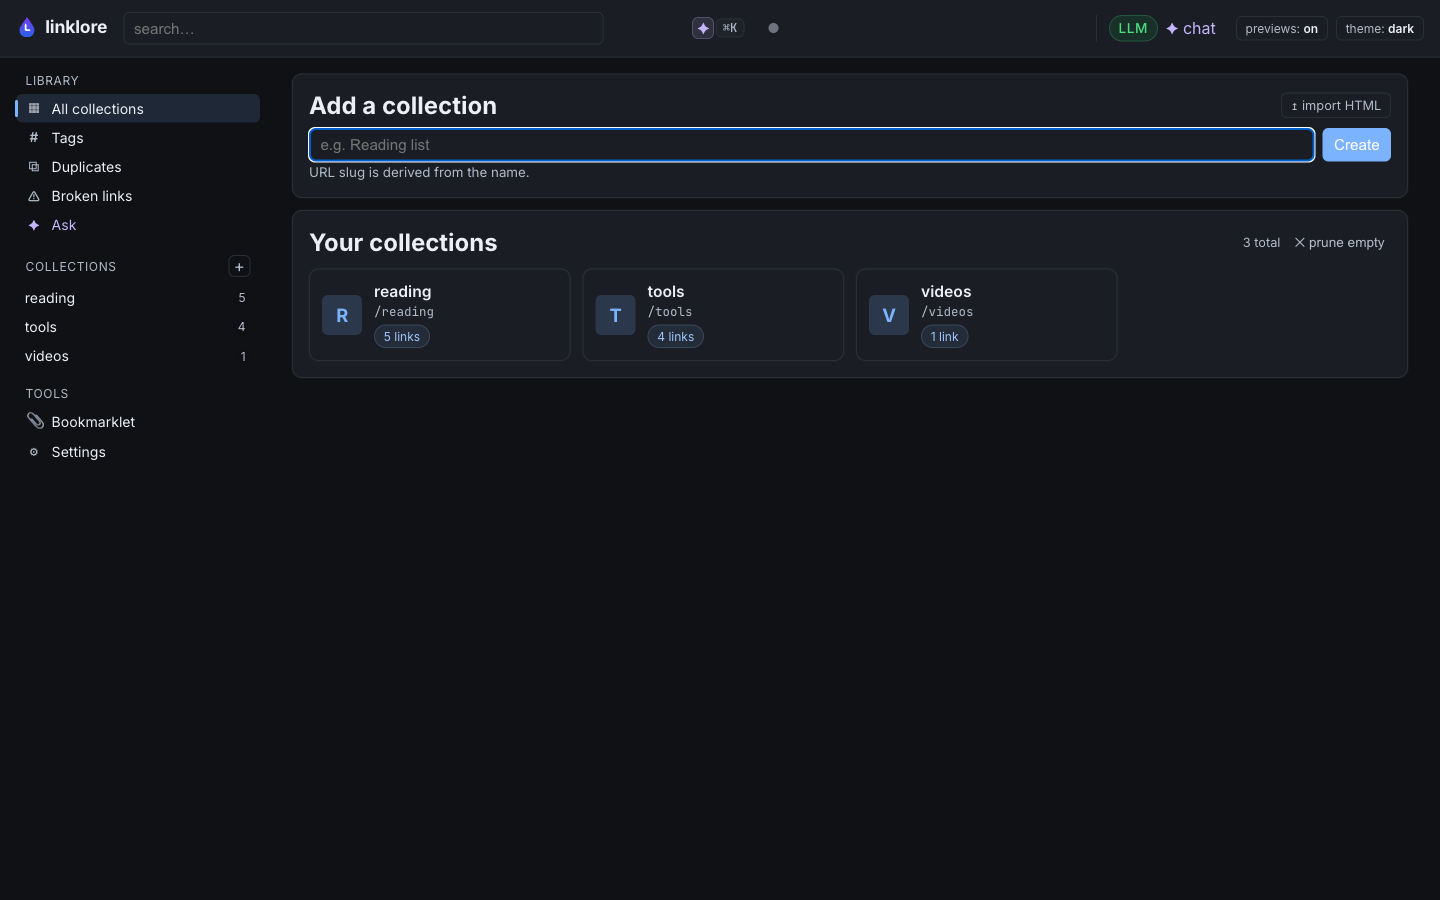
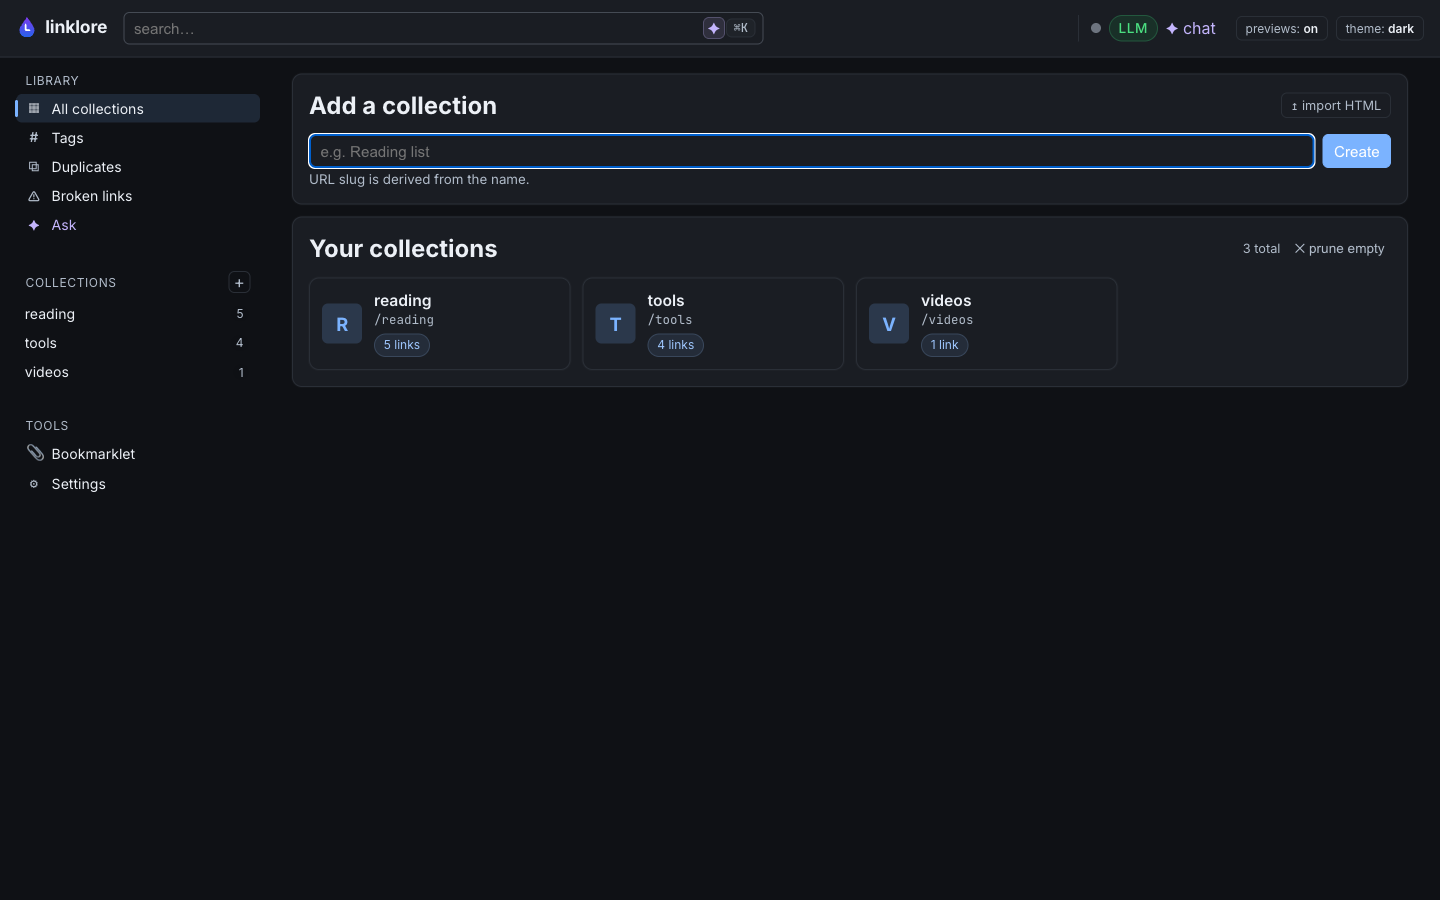
docs(screenshots): re-shoot v16 UI + lead with moodboard hero & chat
After the v16 UI fixes (search/⌘K flush, slug+badges in one row,
sidebar pin on tools, worker-pill hidden when empty), all 8
screenshots needed regenerating.

Reorganised the README screenshot block to lead with the project's
two visual centerpieces:

- Hero (top of README): the Pinterest-style moodboard view of the
  reading collection — three real article cards (Go gophers,
  Stripe Dot Dev, Microservices illustration). Strongest single
  image we have.
- Below: the chat-with-citations capture gets a full-width row of
  its own. The body shows a real Q+A with four [src:4] citations
  inline and the cited / dimmed distinction in the sources rail.
- Then a 2x2 grid: collection list, drawer, type filter, palette.

Each screenshot was retaken against the demo DB at v16 so the
chat-vs-LLM cluster, the slug+badges row, the no-redundant-square
title and the tight ⌘K affordance are all visible in the images.

diff --git a/README.md b/README.md
@@ -73,18 +73,22 @@ the migration.
 
 ## Screenshots
 
+The two views the project is built around: a Pinterest-style moodboard
+of your saved links (the hero above), and a RAG chat that answers
+questions in the language of your library and cites the exact source
+chunk it used.
+
 <table>
 <tr>
-<td width="50%"><strong>Collection — list view</strong><br>Favicon + LLM summary + tags per row, big single hero image on the right. Type filter chips above (article / video / image / audio / document / book) narrow the grid to a single content kind.<br><img src="docs/screenshots/03-collection.png" alt="Collection list view"></td>
-<td width="50%"><strong>RAG chat with citations</strong><br>Streaming answer, <code>[src:N]</code> tokens link back to the exact chunk. Sources rail on the right dims rows that were retrieved but not cited.<br><img src="docs/screenshots/02-chat.png" alt="RAG chat answering with citations"></td>
+<td colspan="2"><strong>Chat with your library</strong> — streaming answer with inline <code>[src:N]</code> citations. The sources rail on the right highlights the chunks the model actually used and dims the ones that were retrieved but irrelevant. Powered by hybrid FTS5 + embedding retrieval over your own SQLite.<br><img src="docs/screenshots/02-chat.png" alt="RAG chat with inline citations"></td>
 </tr>
 <tr>
-<td width="50%"><strong>Moodboard view</strong><br>Same data, Pinterest-style masonry. Three more layouts (grid, headlines, list) one click away — choice is per-collection and persisted.<br><img src="docs/screenshots/06-moodboard.png" alt="Moodboard view"></td>
-<td width="50%"><strong>Type filter</strong><br>Per-collection chip filters narrow the view to one content kind without leaving the page.<br><img src="docs/screenshots/07-types.png" alt="Type filter chips"></td>
+<td width="50%"><strong>Collection — list view</strong><br>Favicon + LLM summary + tags + a single big hero image per row.<br><img src="docs/screenshots/03-collection.png" alt="Collection list view"></td>
+<td width="50%"><strong>Reader drawer</strong><br>Slide-in preview with size / width / theme controls + a TL;DR card.<br><img src="docs/screenshots/04-drawer.png" alt="Reader drawer"></td>
 </tr>
 <tr>
-<td width="50%"><strong>Reader drawer</strong><br>Slide-in preview with size / width / theme controls + an LLM TL;DR card pinned above the article.<br><img src="docs/screenshots/04-drawer.png" alt="Reader drawer"></td>
-<td width="50%"><strong>⌘K command palette</strong><br>Fuzzy-search every link, every collection, every page. <code>j/k</code> walks rows; <code>↵</code> opens.<br><img src="docs/screenshots/05-palette.png" alt="Command palette"></td>
+<td width="50%"><strong>Type filter</strong><br>Per-collection chips: article / video / image / audio / document / book.<br><img src="docs/screenshots/07-types.png" alt="Type filter chips"></td>
+<td width="50%"><strong>⌘K command palette</strong><br>Fuzzy-search every link, every collection, every page.<br><img src="docs/screenshots/05-palette.png" alt="Command palette"></td>
 </tr>
 </table>
 
